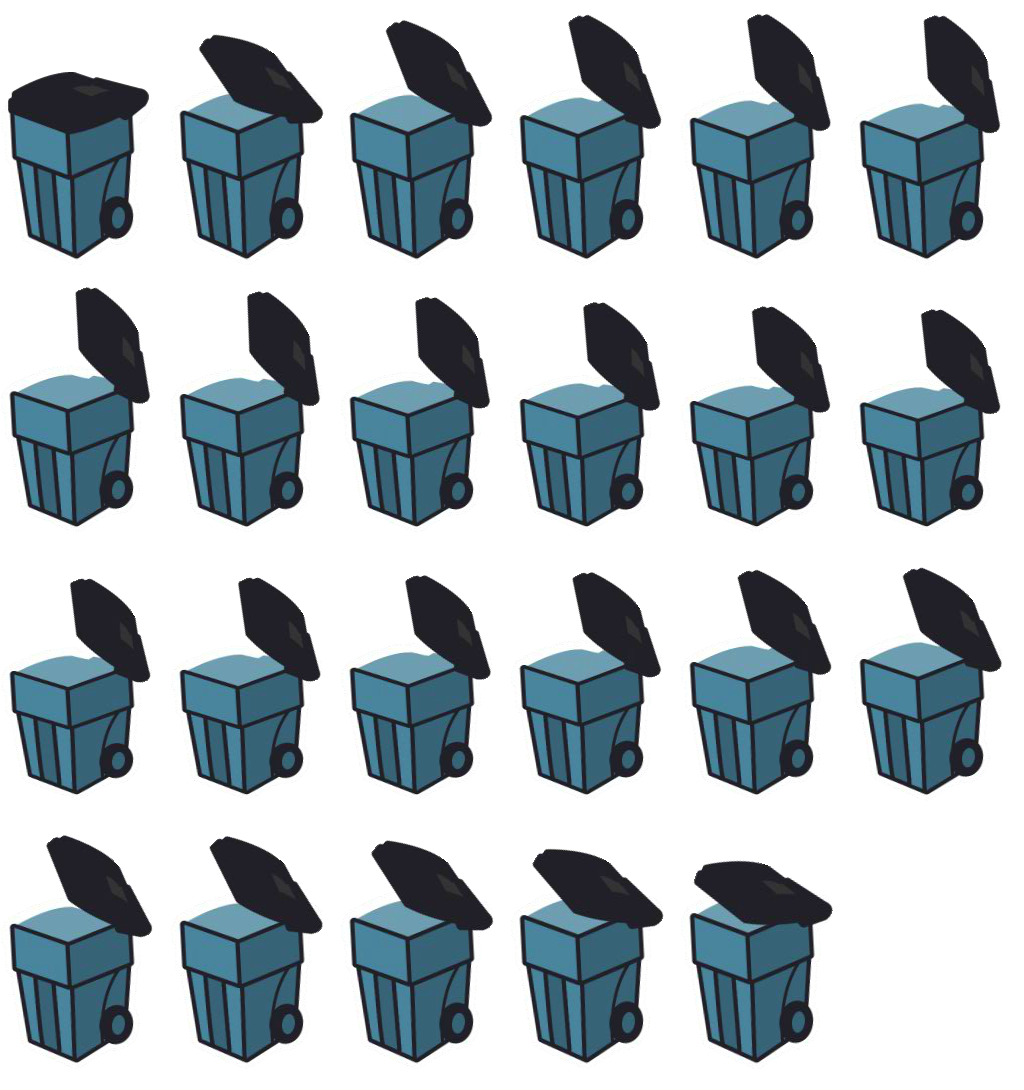
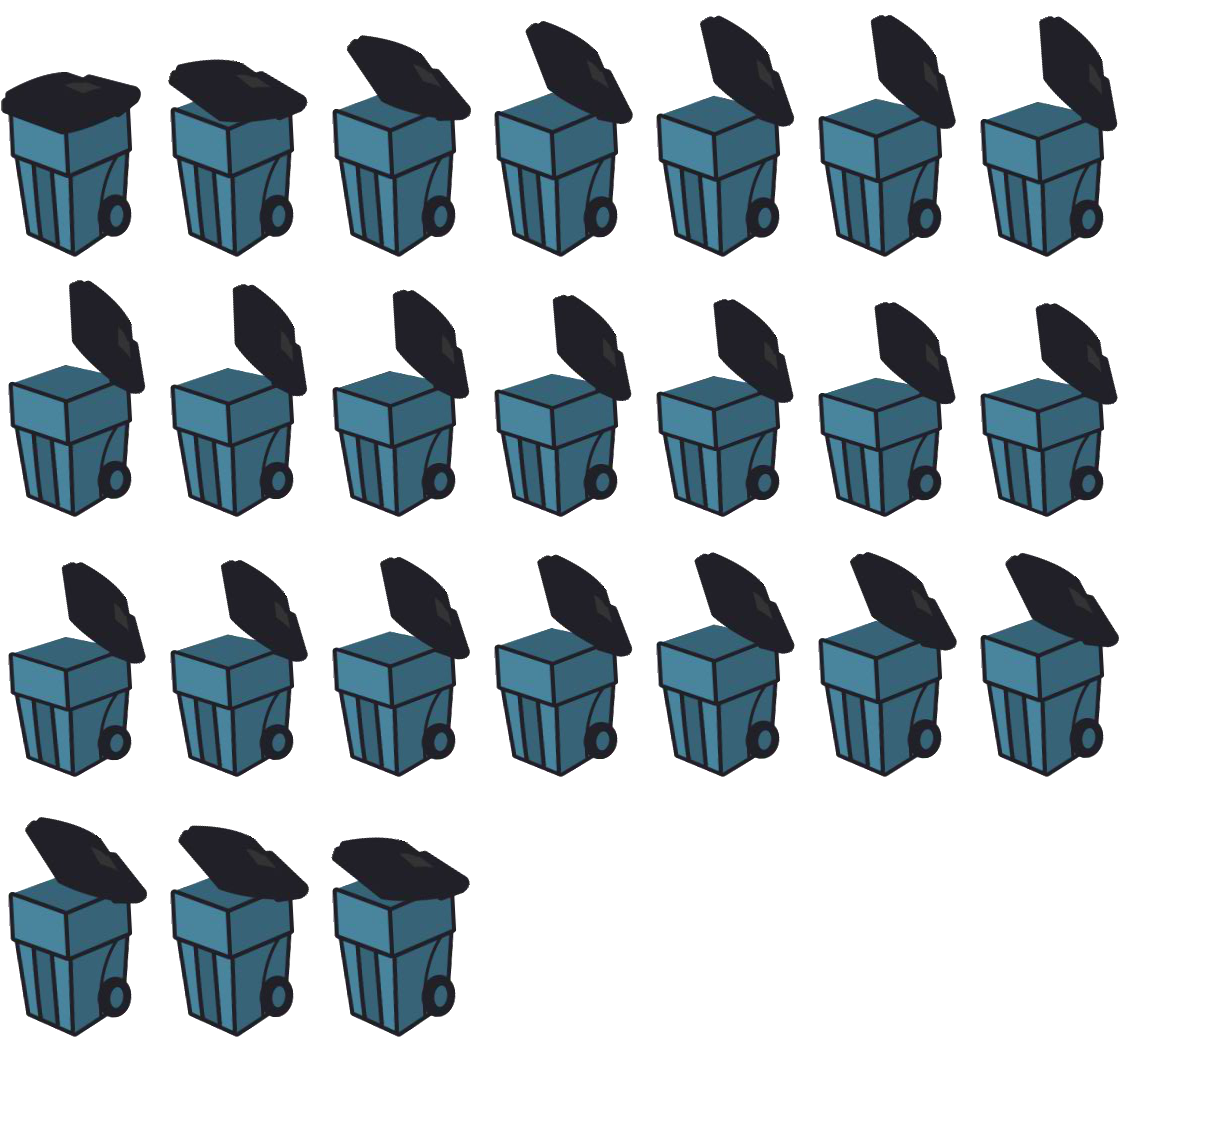
greenRescue Corrected

diff --git a/newStructure/minigames/greenRescue/js/scenes/greenRescue.js b/newStructure/minigames/greenRescue/js/scenes/greenRescue.js
@@ -112,8 +112,6 @@ var greenRescue = function(){
 	}
 
 	function initialize(){
-        
-        
 
        for(var falseStates=0;falseStates<estados.length;falseStates++){
             estados[falseStates]=0;   
@@ -342,7 +340,7 @@ var greenRescue = function(){
         
         game.load.spritesheet("coin", 'images/Spine/coin/coin.png', 122, 123, 12)
         game.load.spritesheet("sprinkler", 'images/Spine/sprinkler/sprinker.png', 272, 305, 23)
-        game.load.spritesheet("can", 'images/Spine/trashcan/trashcan.png', 170, 268, 23)
+        game.load.spritesheet("can", 'images/Spine/trashcan/trashcan.png', 162, 260, 24)
         
 		
 		game.load.image('tutorial_image',"images/green/tutorial_image.png")
@@ -609,18 +607,21 @@ var greenRescue = function(){
         sprinkler.events.onDragStop.add(onDragStop, this);
         sprout.events.onDragStop.add(onDragStop, this);
         
-        shovel.events.onDragStop.add(onDragStart, this);
-        sprinkler.events.onDragStop.add(onDragStart, this);
-        sprout.events.onDragStop.add(onDragStart, this);
+        shovel.events.onDragStart.add(onDragStart, this);
+        sprinkler.events.onDragStart.add(onDragStart, this);
+        sprout.events.onDragStart.add(onDragStart, this);
+        
+        
 
         UIGroup.add(board)
-        UIGroup.add(shovel)
-        UIGroup.add(sprinkler)
-        UIGroup.add(sprout)
+        
         UIGroup.add(shovelIcon)
         UIGroup.add(sprinklerIcon)
         UIGroup.add(sproutIcon)
         UIGroup.add(trashIcon)
+        UIGroup.add(shovel)
+        UIGroup.add(sprinkler)
+        UIGroup.add(sprout)
 
         platform1=game.add.spine(game.world.centerX,game.world.centerY,"floor")
         platform1.scale.setTo(1,1)
@@ -695,8 +696,8 @@ var greenRescue = function(){
             platformGroup.add(tree[translate])
             
             proxy[translate]=game.add.sprite(game.world.centerX-standarX+10+acomodateX*general,game.world.centerY-40+standarY-acomodateY*general,"atlas.green","OLD BAG")
-            proxy[translate].scale.setTo(1,1)
-            proxy[translate].anchor.setTo(0.6,0.6)
+            proxy[translate].scale.setTo(1.2,1.2)
+            proxy[translate].anchor.setTo(0.5,0.5)
             proxy[translate].alpha=0
             platformGroup.add(proxy[translate])
             
@@ -757,7 +758,7 @@ var greenRescue = function(){
         
         //PARCHEZOTE #1
         for(var mess=0;mess<estados.length;mess++){
-                if(tweenIcon[mess] && estados[mess]==0){
+                if(tweenIcon[mess] && estados[mess]==0 || estados[mess]==5){
                     tweenIcon[mess].stop()
                     iconic[mess].alpha=0
                 }
@@ -879,20 +880,12 @@ var greenRescue = function(){
 
 	}
     
+    
     function onDragStart(obj){
         obj.alpha=1;
-        
-        if(obj.tag=="sho"){
-            obj.position.x=shovelIcon.x
-            obj.position.y=shovelIcon.y
-        }else if(obj.tag=="sprin"){
-            obj.position.x=sprinklerIcon.x
-            obj.position.y=sprinklerIcon.y 
-        }else if(obj.tag=="sprout"){
-            obj.position.x=sproutIcon.x
-            obj.position.y=sproutIcon.y
-        }
+        sound.play("pop")
     }
+
     
     function onDragStop(obj){
         
@@ -1034,9 +1027,11 @@ var greenRescue = function(){
             animatedSprinklers[objHere].alpha=1
             animatedSprinklers[objHere].animations.play('sprinkler', 24,false);
             tree[obj.tag].setAnimationByName(0,"COMPLETE",false);
-            tree[obj.tag].alpha=0.3;
+            if(estados[obj.tag-2]>=2 && (obj.tag!=2 && obj.tag!=5 && obj.tag!=8)){
+                tree[obj.tag].alpha=0.5;
+            }
             estados[obj.tag]=5;
-            iconic[obj.tag].y-=200
+            iconic[obj.tag].y-=100
             animatedSprinklers[objHere].y-=100
             tweenIcon[obj.tag].stop()
             game.add.tween(iconic[obj.tag]).to({alpha:0}, (620), Phaser.Easing.Cubic.inOut, true).onComplete.add(function(){
@@ -1046,6 +1041,7 @@ var greenRescue = function(){
                     animatedSprinklers[objHere].alpha=0
                     animatedSprinklers[objHere].y+=170
                 })
+                
             })
             
             
@@ -1340,11 +1336,12 @@ var greenRescue = function(){
             
 			sceneGroup = game.add.group()
 			
+            document.addEventListener("contextmenu", function(e){
+               e.preventDefault();
+           }, false);
             
 			createBackground()
 			addParticles()
-            
-            
                         			
             morning = game.add.audio('morning')
             game.sound.setDecodedCallback(morning, function(){
@@ -1379,8 +1376,6 @@ var greenRescue = function(){
             createOverlay()
             
             animateScene()
-            
-            
             
 		},
 		show: function(event){
